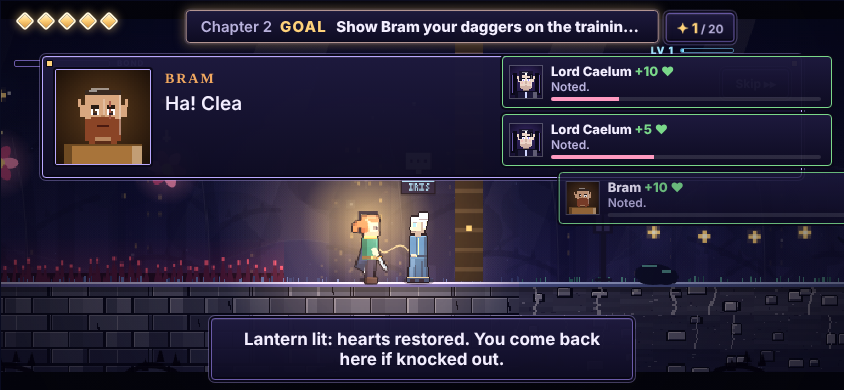
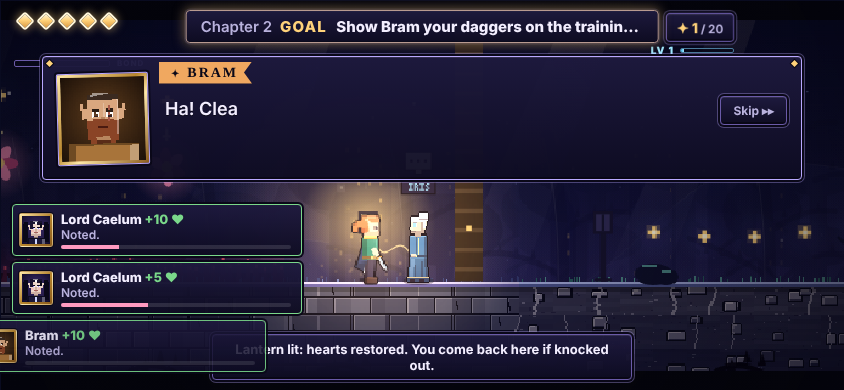
Starhaven Reimagined 13: dialogue redesign, floating foreground and card overlap fixed
The dialogue box takes the speaker's colour, a name ribbon, a gilded tilted
portrait frame, book-style narration and diamond-marked choices. Fixes the
foreground strip hanging in mid-air when the camera rises and consequence
cards covering the dialogue portrait. Thorn sprites get legs, a shadow, a
spin-up and a leaf burst on death.

Claude-Session: https://claude.ai/code/session_01PwDoV4SgoNJ5FnbkB1YJ2V

Changed region(s): [[0.0, 0.1231, 0.9858, 0.9846]]

diff --git a/starhaven/game/starhaven.html b/starhaven/game/starhaven.html
@@ -299,6 +299,34 @@ body.upright #b-gift { bottom: calc(12vh + 84px); } body.upright #b-art { bottom
 body.upright #touch-hint { bottom: 5vh; left: 0; right: 0; text-align: center; }
 body.upright #bossbar { top: calc(var(--cvh) + env(safe-area-inset-top) - 26px); bottom: auto; }
 body.upright #f-logo h1 { font-size: clamp(30px, 11vw, 60px); }
+/* ---- dialogue with character: the speaker's colour runs through the box, the name sits on a ribbon over its top
+   edge, the portrait hangs in a gilded frame with a crest, and narration is set apart like a line from a book */
+#effects { transition: top .2s; } body[data-state="talk"]:not(.upright) #effects { top: 206px; }
+#lvl { top: 50px; }
+#dialog { --spk: #b9a8ff; padding: 16px 18px 14px 14px; gap: 16px; align-items: center; border-radius: 6px;
+  background: linear-gradient(180deg, rgba(34,28,70,.97), rgba(14,12,34,.97)), repeating-linear-gradient(90deg, rgba(255,255,255,.02) 0 2px, transparent 2px 6px);
+  border: 1px solid var(--spk); box-shadow: 0 0 0 2px #0a0818, 0 0 0 3px rgba(255,210,122,.45), 0 8px 22px rgba(0,0,0,.55), inset 0 1px 0 rgba(255,255,255,.12), inset 0 0 26px rgba(0,0,0,.35), inset 4px 0 0 var(--spk); overflow: visible; }
+#dialog::before, #dialog::after { top: auto; bottom: 5px; width: 6px; height: 6px; transform: rotate(45deg); background: var(--gold); }
+#d-face { width: 92px; height: 92px; padding: 3px; background: linear-gradient(135deg, #ffe9a8, #b8862e 45%, #ffe9a8 60%, #8a5a1c); border: 0; border-radius: 4px;
+  box-shadow: 0 0 0 2px #0a0818, 0 0 0 3px var(--spk), 3px 4px 0 rgba(0,0,0,.45), inset 0 0 0 1px rgba(10,8,24,.55); position: relative; transform: rotate(-1.5deg); }
+#d-body { position: relative; }
+#d-name { position: absolute; left: -6px; top: -34px; margin: 0; padding: 3px 14px 3px 12px; font-size: 13px; letter-spacing: .16em; color: #0a0818 !important; background: var(--spk);
+  clip-path: polygon(0 0, 100% 0, calc(100% - 8px) 50%, 100% 100%, 0 100%); box-shadow: 0 2px 0 rgba(0,0,0,.4); }
+#d-name::before { content: '\2726'; margin-right: 6px; font-size: 10px; }
+#d-text { font-size: 18px; line-height: 1.42; text-shadow: 0 1px 0 rgba(0,0,0,.5); }
+#dialog.narr { justify-content: center; text-align: center; border-color: var(--plate-line); box-shadow: 0 0 0 2px #0a0818, 0 0 0 3px rgba(185,168,255,.3), 0 8px 22px rgba(0,0,0,.55), inset 0 0 26px rgba(0,0,0,.35); }
+#dialog.narr #d-text { font-family: var(--display); font-style: italic; font-size: 17px; letter-spacing: .01em; color: #efe9ff; padding: 0 14px; }
+#dialog.narr #d-text::before { content: '\2726'; display: block; color: var(--gold); font-size: 10px; font-style: normal; margin-bottom: 3px; opacity: .8; }
+#dialog.narr #d-skip { position: absolute; right: 10px; top: 8px; float: none; margin: 0; }
+#d-more { font-size: 0; right: 16px; bottom: 9px; } #d-more::after { content: '\25BC'; font-size: 12px; color: var(--gold); display: inline-block; animation: nudge .9s ease-in-out infinite; }
+@keyframes nudge { 0%, 100% { transform: translateY(0) } 50% { transform: translateY(4px) } }
+.choice { border-radius: 4px; border: 1px solid var(--plate-line); background: linear-gradient(90deg, rgba(255,210,122,.10), rgba(255,210,122,.02)); padding: 9px 12px 9px 30px; position: relative; font-size: 15px; }
+.choice::before { content: '' !important; position: absolute; left: 11px; top: 50%; width: 8px; height: 8px; margin-top: -4px; transform: rotate(45deg); border: 1px solid var(--gold); }
+.choice.sel { border-color: var(--gold); background: linear-gradient(90deg, rgba(255,210,122,.30), rgba(255,210,122,.06)); transform: translateX(4px); }
+.choice.sel::before { background: var(--gold); box-shadow: 0 0 8px var(--gold); }
+#whisper img, .fx-row img { padding: 2px; background: linear-gradient(135deg, #ffe9a8, #b8862e 50%, #8a5a1c); border: 0; box-shadow: 0 0 0 1px #0a0818; border-radius: 3px; }
+.person img, #m-status img { padding: 2px; background: linear-gradient(135deg, #ffe9a8, #b8862e 50%, #8a5a1c); border: 0 !important; box-shadow: 0 0 0 1px #0a0818; border-radius: 3px; }
+body.upright #d-face { width: 70px; height: 70px; } body.upright #dialog { margin-top: 14px; }
 /* ---- level and experience, under the Starlight count; touch buttons with a larger area than they look */
 #lvl { position: absolute; right: calc(max(14px, env(safe-area-inset-right)) + 96px); top: 44px; display: flex; align-items: center; gap: 6px; font: 800 10px var(--body); letter-spacing: .1em; color: #9fe8ff; }
 #lvl i { display: block; width: 54px; height: 5px; background: rgba(8,8,24,.75); border: 1px solid #4a7a9a; border-radius: 2px; overflow: hidden; } #lvl i span { display: block; height: 100%; background: linear-gradient(90deg, #4ab8e8, #9fe8ff); transition: width .4s; }
@@ -5507,7 +5535,7 @@ h2 { letter-spacing: .12em; text-transform: uppercase; }
 
     // the foreground: dark shapes close to the eye, sliding past faster than the world (depth, as in Hollow Knight)
     { const fgName = zones[zi].theme, fg = layers.fg[fgName] || (layers.fg[fgName] = makeForeground(fgName)), fxo = ((cx * 1.45) % fg.width + fg.width) % fg.width;
-      ctx.globalAlpha = 0.9; for (let x0 = -fxo; x0 < vw; x0 += fg.width) ctx.drawImage(fg, Math.round(x0), VH - fg.height + Math.round((cy - (w.room.pxH - VH)) * 0.2)); ctx.globalAlpha = 1; }
+      ctx.globalAlpha = 0.9; for (let x0 = -fxo; x0 < vw; x0 += fg.width) ctx.drawImage(fg, Math.round(x0), Math.round(w.room.pxH - cy - fg.height + ((w.room.pxH - VH) - cy) * 0.35)); ctx.globalAlpha = 1; }
     { const kk = zi > 0 ? Math.min(1, (mid - (zones[zi].x - 6)) / 12) : 0; drawLight(ctx, w, cx - sx, cy - sy, vw, VH, t, zones[Math.max(0, zi - 1)].theme, zones[zi].theme, kk); }
     ctx.restore();
     SH.arts.draw(ctx, w, vw, VH);
@@ -5950,7 +5978,12 @@ h2 { letter-spacing: .12em; text-transform: uppercase; }
       g.addColorStop(0, `rgba(255,150,60,${0.55 * k})`); g.addColorStop(1, 'rgba(255,150,60,0)');
       ctx.fillStyle = g; ctx.fillRect(x - 30, cy - 30, 60, 60);
     }
-    const spikes = 10, rot = e.wobble * 0.2 * (e.dir || 1);
+    ctx.fillStyle = 'rgba(0,0,0,0.3)'; ctx.beginPath(); ctx.ellipse(x, e.y, 12, 3, 0, 0, Math.PI * 2); ctx.fill();
+    ctx.strokeStyle = '#0a0818'; ctx.lineWidth = 3; ctx.lineCap = 'round';
+    for (let i = 0; i < 4; i++) { const lx = x - 9 + i * 6, sw = (e.state === 'wander' || e.state === 'lunge') ? Math.sin(t * 0.4 + i * 1.6) * 3 : 0; ctx.beginPath(); ctx.moveTo(lx, cy + 6); ctx.lineTo(lx + sw, e.y - 1); ctx.stroke(); }
+    ctx.strokeStyle = angry ? PAL.spriteAngry : PAL.spriteRim; ctx.lineWidth = 1;
+    for (let i = 0; i < 4; i++) { const lx = x - 9 + i * 6, sw = (e.state === 'wander' || e.state === 'lunge') ? Math.sin(t * 0.4 + i * 1.6) * 3 : 0; ctx.beginPath(); ctx.moveTo(lx, cy + 6); ctx.lineTo(lx + sw, e.y - 1); ctx.stroke(); }
+    const spikes = 10, rot = e.wobble * 0.2 * (e.dir || 1) + (e.state === 'windup' ? e.t * 0.12 : Math.sin(t * 0.03 + x) * 0.08);
     const body = e.flash > 0 ? '#ffffff' : angry ? '#6a4a1c' : PAL.sprite;
     const rim = e.flash > 0 ? '#ffffff' : angry ? PAL.spriteAngry : PAL.spriteRim;
     ctx.fillStyle = '#0a0818'; star(ctx, x, cy, 16, 10.5, spikes, rot);
@@ -6065,7 +6098,8 @@ h2 { letter-spacing: .12em; text-transform: uppercase; }
       muralProgress: 0,
       wyrm: def.chase ? { on: false, x: def.chase.wyrmX * TS, speed: def.chase.speed } : null,
       camCenterX() { return this.cam.x + this.viewW / 2; },
-      onKill(e) { G.hud.goal(); SH.arts.whisper('kill'); SH.xp.gain(e && e.boss ? 80 : e && e.kind === 'wyrm' ? 25 : 10, true); },
+      onKill(e) { G.hud.goal(); SH.arts.whisper('kill');
+        if (e && e.kind === 'thornSprite') { fx.burst(e.x, e.y - 12, 26, { speed: 3.2, life: 46, gravity: 0.1, drag: 0.95, size: 3, colors: ['#2f5c2b', '#8fd16b', '#5a1d3e', '#ff5a78'] }); fx.ring(e.x, e.y - 12, '#8fd16b', 34, 16, 2); } SH.xp.gain(e && e.boss ? 80 : e && e.kind === 'wyrm' ? 25 : 10, true); },
       onDash() { },
       onPerfectDodge() {
         fx.slowmo = 26; player.stats.perfect++;
@@ -6847,7 +6881,7 @@ h2 { letter-spacing: .12em; text-transform: uppercase; }
     faceWho = narr ? null : (who === 'wren' && SH.game.mortal ? 'wren_m' : who); faceT = 0;
     if (!narr) $('d-face').src = SH.art.portraitURL(faceWho);
     $('d-name').textContent = c.name;
-    $('d-name').style.color = c.color;
+    $('d-name').style.color = c.color; el.style.setProperty('--spk', c.color);
     el.classList.add('show');
     H.typeStart(text, narr);
   };

diff --git a/starhaven/game/index.src.html b/starhaven/game/index.src.html
@@ -299,6 +299,34 @@ body.upright #b-gift { bottom: calc(12vh + 84px); } body.upright #b-art { bottom
 body.upright #touch-hint { bottom: 5vh; left: 0; right: 0; text-align: center; }
 body.upright #bossbar { top: calc(var(--cvh) + env(safe-area-inset-top) - 26px); bottom: auto; }
 body.upright #f-logo h1 { font-size: clamp(30px, 11vw, 60px); }
+/* ---- dialogue with character: the speaker's colour runs through the box, the name sits on a ribbon over its top
+   edge, the portrait hangs in a gilded frame with a crest, and narration is set apart like a line from a book */
+#effects { transition: top .2s; } body[data-state="talk"]:not(.upright) #effects { top: 206px; }
+#lvl { top: 50px; }
+#dialog { --spk: #b9a8ff; padding: 16px 18px 14px 14px; gap: 16px; align-items: center; border-radius: 6px;
+  background: linear-gradient(180deg, rgba(34,28,70,.97), rgba(14,12,34,.97)), repeating-linear-gradient(90deg, rgba(255,255,255,.02) 0 2px, transparent 2px 6px);
+  border: 1px solid var(--spk); box-shadow: 0 0 0 2px #0a0818, 0 0 0 3px rgba(255,210,122,.45), 0 8px 22px rgba(0,0,0,.55), inset 0 1px 0 rgba(255,255,255,.12), inset 0 0 26px rgba(0,0,0,.35), inset 4px 0 0 var(--spk); overflow: visible; }
+#dialog::before, #dialog::after { top: auto; bottom: 5px; width: 6px; height: 6px; transform: rotate(45deg); background: var(--gold); }
+#d-face { width: 92px; height: 92px; padding: 3px; background: linear-gradient(135deg, #ffe9a8, #b8862e 45%, #ffe9a8 60%, #8a5a1c); border: 0; border-radius: 4px;
+  box-shadow: 0 0 0 2px #0a0818, 0 0 0 3px var(--spk), 3px 4px 0 rgba(0,0,0,.45), inset 0 0 0 1px rgba(10,8,24,.55); position: relative; transform: rotate(-1.5deg); }
+#d-body { position: relative; }
+#d-name { position: absolute; left: -6px; top: -34px; margin: 0; padding: 3px 14px 3px 12px; font-size: 13px; letter-spacing: .16em; color: #0a0818 !important; background: var(--spk);
+  clip-path: polygon(0 0, 100% 0, calc(100% - 8px) 50%, 100% 100%, 0 100%); box-shadow: 0 2px 0 rgba(0,0,0,.4); }
+#d-name::before { content: '\2726'; margin-right: 6px; font-size: 10px; }
+#d-text { font-size: 18px; line-height: 1.42; text-shadow: 0 1px 0 rgba(0,0,0,.5); }
+#dialog.narr { justify-content: center; text-align: center; border-color: var(--plate-line); box-shadow: 0 0 0 2px #0a0818, 0 0 0 3px rgba(185,168,255,.3), 0 8px 22px rgba(0,0,0,.55), inset 0 0 26px rgba(0,0,0,.35); }
+#dialog.narr #d-text { font-family: var(--display); font-style: italic; font-size: 17px; letter-spacing: .01em; color: #efe9ff; padding: 0 14px; }
+#dialog.narr #d-text::before { content: '\2726'; display: block; color: var(--gold); font-size: 10px; font-style: normal; margin-bottom: 3px; opacity: .8; }
+#dialog.narr #d-skip { position: absolute; right: 10px; top: 8px; float: none; margin: 0; }
+#d-more { font-size: 0; right: 16px; bottom: 9px; } #d-more::after { content: '\25BC'; font-size: 12px; color: var(--gold); display: inline-block; animation: nudge .9s ease-in-out infinite; }
+@keyframes nudge { 0%, 100% { transform: translateY(0) } 50% { transform: translateY(4px) } }
+.choice { border-radius: 4px; border: 1px solid var(--plate-line); background: linear-gradient(90deg, rgba(255,210,122,.10), rgba(255,210,122,.02)); padding: 9px 12px 9px 30px; position: relative; font-size: 15px; }
+.choice::before { content: '' !important; position: absolute; left: 11px; top: 50%; width: 8px; height: 8px; margin-top: -4px; transform: rotate(45deg); border: 1px solid var(--gold); }
+.choice.sel { border-color: var(--gold); background: linear-gradient(90deg, rgba(255,210,122,.30), rgba(255,210,122,.06)); transform: translateX(4px); }
+.choice.sel::before { background: var(--gold); box-shadow: 0 0 8px var(--gold); }
+#whisper img, .fx-row img { padding: 2px; background: linear-gradient(135deg, #ffe9a8, #b8862e 50%, #8a5a1c); border: 0; box-shadow: 0 0 0 1px #0a0818; border-radius: 3px; }
+.person img, #m-status img { padding: 2px; background: linear-gradient(135deg, #ffe9a8, #b8862e 50%, #8a5a1c); border: 0 !important; box-shadow: 0 0 0 1px #0a0818; border-radius: 3px; }
+body.upright #d-face { width: 70px; height: 70px; } body.upright #dialog { margin-top: 14px; }
 /* ---- level and experience, under the Starlight count; touch buttons with a larger area than they look */
 #lvl { position: absolute; right: calc(max(14px, env(safe-area-inset-right)) + 96px); top: 44px; display: flex; align-items: center; gap: 6px; font: 800 10px var(--body); letter-spacing: .1em; color: #9fe8ff; }
 #lvl i { display: block; width: 54px; height: 5px; background: rgba(8,8,24,.75); border: 1px solid #4a7a9a; border-radius: 2px; overflow: hidden; } #lvl i span { display: block; height: 100%; background: linear-gradient(90deg, #4ab8e8, #9fe8ff); transition: width .4s; }

diff --git a/starhaven/game/src/draw.js b/starhaven/game/src/draw.js
@@ -508,7 +508,7 @@
 
     // the foreground: dark shapes close to the eye, sliding past faster than the world (depth, as in Hollow Knight)
     { const fgName = zones[zi].theme, fg = layers.fg[fgName] || (layers.fg[fgName] = makeForeground(fgName)), fxo = ((cx * 1.45) % fg.width + fg.width) % fg.width;
-      ctx.globalAlpha = 0.9; for (let x0 = -fxo; x0 < vw; x0 += fg.width) ctx.drawImage(fg, Math.round(x0), VH - fg.height + Math.round((cy - (w.room.pxH - VH)) * 0.2)); ctx.globalAlpha = 1; }
+      ctx.globalAlpha = 0.9; for (let x0 = -fxo; x0 < vw; x0 += fg.width) ctx.drawImage(fg, Math.round(x0), Math.round(w.room.pxH - cy - fg.height + ((w.room.pxH - VH) - cy) * 0.35)); ctx.globalAlpha = 1; }
     { const kk = zi > 0 ? Math.min(1, (mid - (zones[zi].x - 6)) / 12) : 0; drawLight(ctx, w, cx - sx, cy - sy, vw, VH, t, zones[Math.max(0, zi - 1)].theme, zones[zi].theme, kk); }
     ctx.restore();
     SH.arts.draw(ctx, w, vw, VH);
@@ -951,7 +951,12 @@
       g.addColorStop(0, `rgba(255,150,60,${0.55 * k})`); g.addColorStop(1, 'rgba(255,150,60,0)');
       ctx.fillStyle = g; ctx.fillRect(x - 30, cy - 30, 60, 60);
     }
-    const spikes = 10, rot = e.wobble * 0.2 * (e.dir || 1);
+    ctx.fillStyle = 'rgba(0,0,0,0.3)'; ctx.beginPath(); ctx.ellipse(x, e.y, 12, 3, 0, 0, Math.PI * 2); ctx.fill();
+    ctx.strokeStyle = '#0a0818'; ctx.lineWidth = 3; ctx.lineCap = 'round';
+    for (let i = 0; i < 4; i++) { const lx = x - 9 + i * 6, sw = (e.state === 'wander' || e.state === 'lunge') ? Math.sin(t * 0.4 + i * 1.6) * 3 : 0; ctx.beginPath(); ctx.moveTo(lx, cy + 6); ctx.lineTo(lx + sw, e.y - 1); ctx.stroke(); }
+    ctx.strokeStyle = angry ? PAL.spriteAngry : PAL.spriteRim; ctx.lineWidth = 1;
+    for (let i = 0; i < 4; i++) { const lx = x - 9 + i * 6, sw = (e.state === 'wander' || e.state === 'lunge') ? Math.sin(t * 0.4 + i * 1.6) * 3 : 0; ctx.beginPath(); ctx.moveTo(lx, cy + 6); ctx.lineTo(lx + sw, e.y - 1); ctx.stroke(); }
+    const spikes = 10, rot = e.wobble * 0.2 * (e.dir || 1) + (e.state === 'windup' ? e.t * 0.12 : Math.sin(t * 0.03 + x) * 0.08);
     const body = e.flash > 0 ? '#ffffff' : angry ? '#6a4a1c' : PAL.sprite;
     const rim = e.flash > 0 ? '#ffffff' : angry ? PAL.spriteAngry : PAL.spriteRim;
     ctx.fillStyle = '#0a0818'; star(ctx, x, cy, 16, 10.5, spikes, rot);

diff --git a/starhaven/game/src/game.js b/starhaven/game/src/game.js
@@ -80,7 +80,8 @@
       muralProgress: 0,
       wyrm: def.chase ? { on: false, x: def.chase.wyrmX * TS, speed: def.chase.speed } : null,
       camCenterX() { return this.cam.x + this.viewW / 2; },
-      onKill(e) { G.hud.goal(); SH.arts.whisper('kill'); SH.xp.gain(e && e.boss ? 80 : e && e.kind === 'wyrm' ? 25 : 10, true); },
+      onKill(e) { G.hud.goal(); SH.arts.whisper('kill');
+        if (e && e.kind === 'thornSprite') { fx.burst(e.x, e.y - 12, 26, { speed: 3.2, life: 46, gravity: 0.1, drag: 0.95, size: 3, colors: ['#2f5c2b', '#8fd16b', '#5a1d3e', '#ff5a78'] }); fx.ring(e.x, e.y - 12, '#8fd16b', 34, 16, 2); } SH.xp.gain(e && e.boss ? 80 : e && e.kind === 'wyrm' ? 25 : 10, true); },
       onDash() { },
       onPerfectDodge() {
         fx.slowmo = 26; player.stats.perfect++;

diff --git a/starhaven/game/src/hud.js b/starhaven/game/src/hud.js
@@ -80,7 +80,7 @@
     faceWho = narr ? null : (who === 'wren' && SH.game.mortal ? 'wren_m' : who); faceT = 0;
     if (!narr) $('d-face').src = SH.art.portraitURL(faceWho);
     $('d-name').textContent = c.name;
-    $('d-name').style.color = c.color;
+    $('d-name').style.color = c.color; el.style.setProperty('--spk', c.color);
     el.classList.add('show');
     H.typeStart(text, narr);
   };

diff --git a/starhaven/CHANGELOG.md b/starhaven/CHANGELOG.md
@@ -1,5 +1,34 @@
 # Starhaven — Changelog
 
+## Reimagined 13 — dialogue with character, and two graphics glitches (Nov 18, 2026)
+Will: some goofy stuff happens with the graphics; the text boxes and the picture frames for the characters need more
+character and design; keep making the slice better.
+
+**Glitches found by looking at frames mid-jump in every level, and fixed**
+- **Grass and trees floating in mid-air.** The dark foreground strip was pinned to the bottom of the screen, so when
+  the camera rose (a jump onto a ledge, a high platform) it hung in the sky with no ground under it. It now belongs to
+  the bottom of the world and drops out of sight as the camera rises.
+- **Consequence cards covering the speaker.** After moving them to the left last round, they landed exactly on top of
+  the dialogue box's portrait and first words. While someone is talking they now sit below the box.
+- The level chip no longer tucks under the Starlight count.
+
+**Dialogue redesigned**
+- The **speaker's colour** runs through the box: its border, a stripe down the left edge, and the name.
+- The **name sits on a ribbon** over the top edge of the box, with a small star.
+- The **portrait hangs in a gilded frame**, slightly tilted, with a drop shadow and the speaker's colour round it. The
+  same frame is used wherever a face appears (whispers, consequence cards, the journal, the pause screen).
+- **Narration is set apart** like a line from a book: centred, in the serif face, under a small star, with no portrait.
+- **Choices** are plates with a diamond marker that fills and glows on the one you are on, and slides a little.
+- The "tap anywhere" text is now a small bouncing arrow.
+
+**Enemies.** Thorn sprites have a shadow, root-legs that scuttle when they move, spines that spin up as they wind
+up, and they burst into leaves and thorns when they die.
+
+**Honest notes.** I could not tell which "goofy" things Will saw, so I went looking; the two above are what I found.
+If it was something else, a word about where (which level, what was on screen) will find it. The portraits inside the
+new frames are the same drawings. Wren's figure and the wyrms are unchanged. Tests: 50 play checks, 19 menu checks,
+the fuzz run, the screenshot run. **Not played by hand or on a phone.**
+
 ## Reimagined 12 — pop-ups out of the way (Nov 18, 2026)
 Will: word pop-ups block the direction you're going.
 
